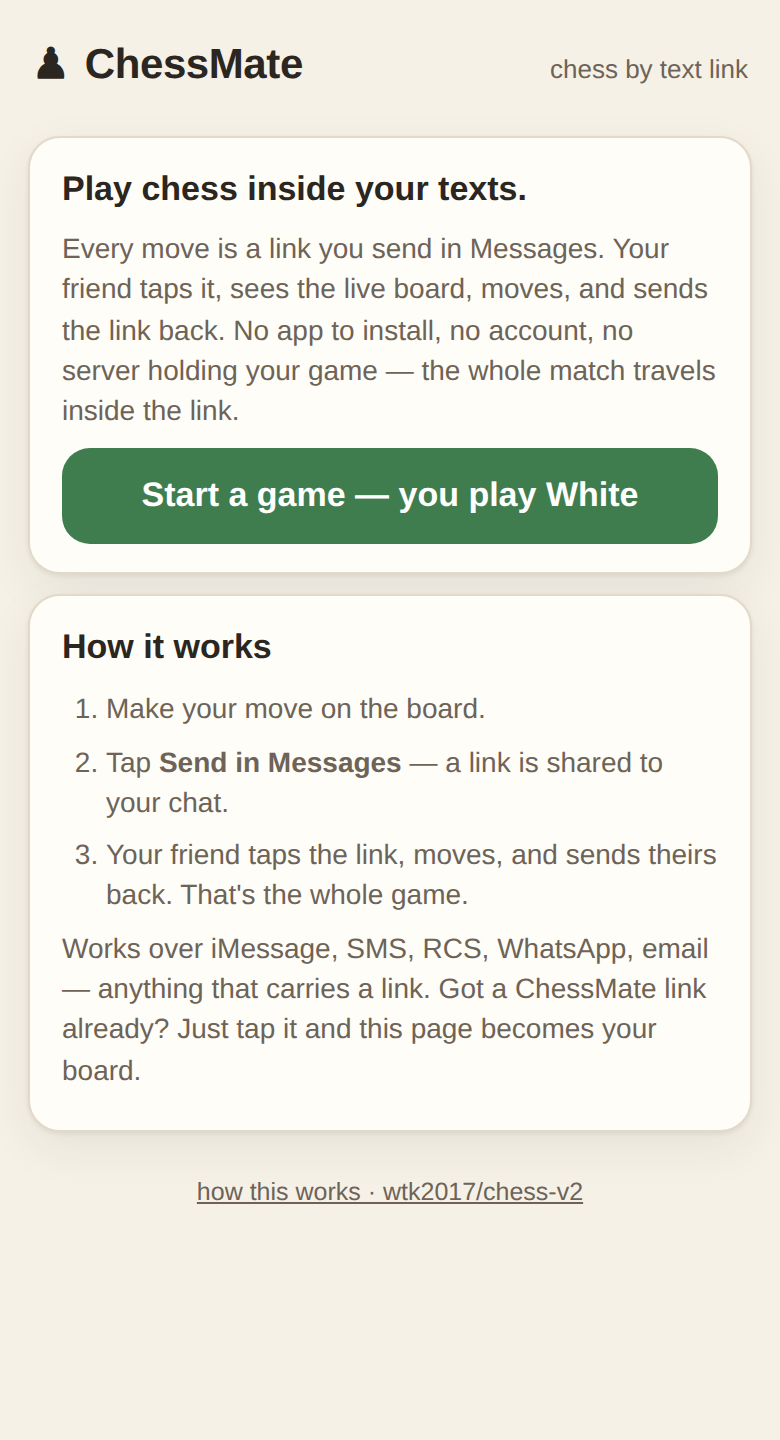
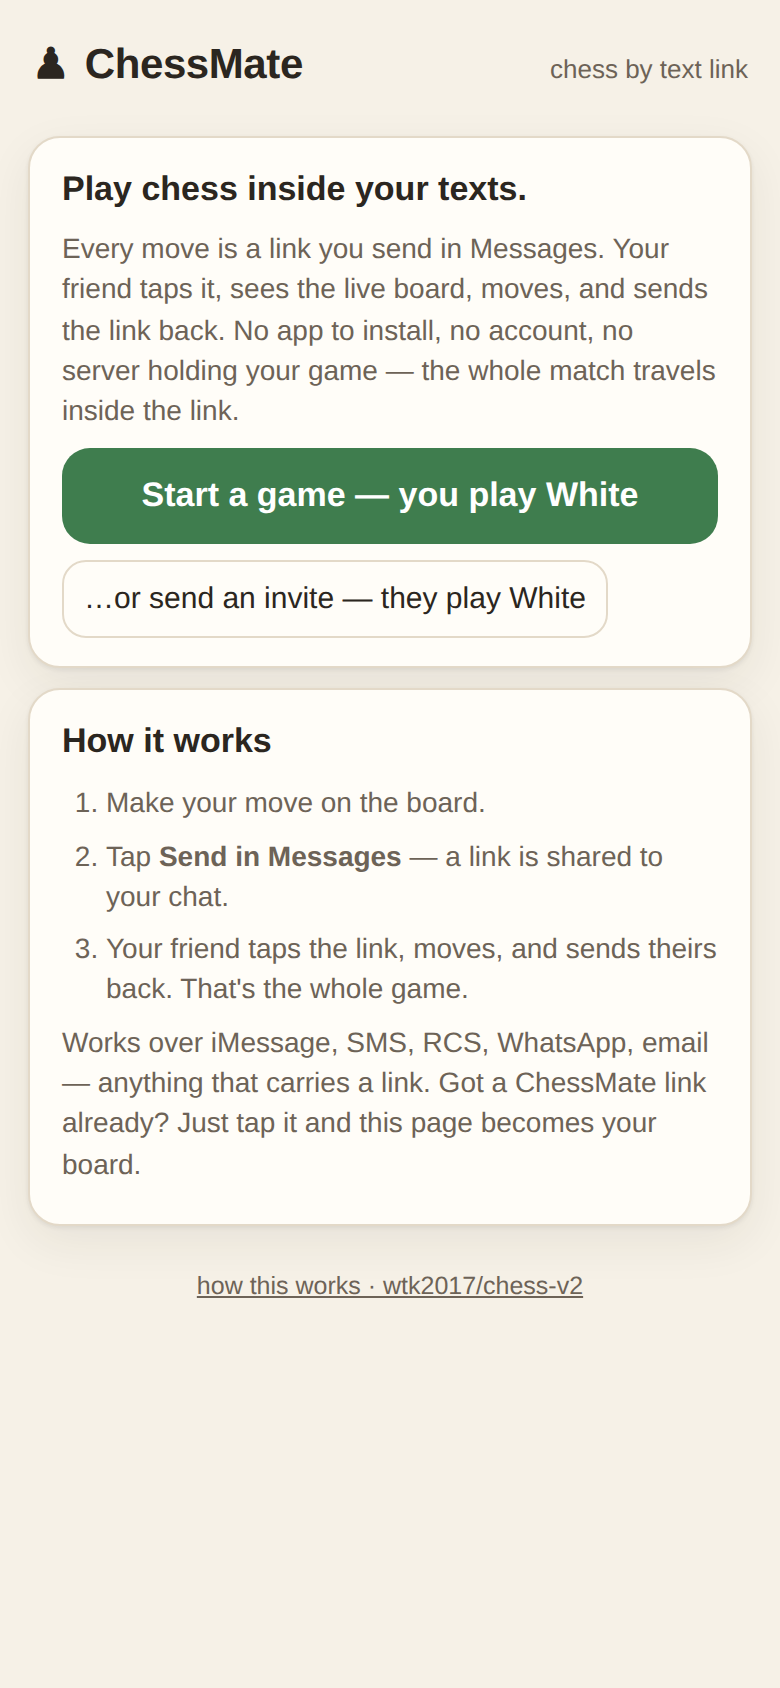
Polish round 2: verdict-link seating, blank-link guard fix, reviewer nits
Applies the remaining findings from the independent review's accepting
round:
- Verdict links now seat the viewer by sender identity: resignation
  links seat the receiver as the winner (and the resigner as themselves
  via the sent-link memory); the da= field now names the accepting side
  ("da=w"/"da=b", legacy "da=1" still decodes) so agreement links seat
  correctly too. Fixes rematch color alternation on resignation and
  agreement finals.
- Blank invite/rematch links ("v=1") no longer arm or feed the
  sent-link guard — a recipient's invite can't be mistaken for a link
  this device sent.
- Post-send status on a game-ending move reads "Link sent — game over,
  0–1" instead of naming the mated side as awaited.
- No-share browsers: primary becomes "Copy link" and the redundant
  secondary copy button hides.
- Staged invites get a "Never mind" exit back to the landing screen.
- Promotion Cancel no longer inherits the piece-glyph styling; stepper
  buttons meet the 44pt floor; stepper start label drops "move" for
  plies.
- Engine suite grows to 102 checks (da codec), browser smoke to 19
  scenarios (sender-identity seating, blank-link guard, invite exit);
  all passing. README gallery re-captured from the final UI.

Claude-Session: https://claude.ai/code/session_01N99Yz2LGrmULWWPaGFwkEH

diff --git a/test/smoke.js b/test/smoke.js
@@ -143,7 +143,7 @@ async function main() {
   assert.ok(promoLink.indexOf("a7b8q") !== -1, "promotion encoded: " + promoLink);
   ok("promotion picker stages axb8=Q");
 
-  // Draw offer riding a move, then acceptance.
+  // Draw offer riding a move, then acceptance (da names the accepter).
   await page.goto(served.base + "#v=1&m=e2e4");
   await page.click("#offerDrawBtn");
   await tapMove(page, "e7", "e5");
@@ -153,7 +153,7 @@ async function main() {
   assert.ok(await page.isVisible("#drawBanner"), "offer banner shown to opponent");
   await page.click("#acceptDrawBtn");
   var agreeLink = await stagedLink(page);
-  assert.ok(agreeLink.indexOf("da=1") !== -1, "agreement encoded");
+  assert.ok(agreeLink.indexOf("da=w") !== -1, "agreement names the accepter: " + agreeLink);
   await page.goto(agreeLink);
   assert.ok((await page.textContent("#statusLine")).indexOf("Draw") !== -1);
   ok("draw offer → accept → agreed draw");
@@ -169,20 +169,46 @@ async function main() {
   assert.ok((await page.textContent("#statusLine")).indexOf("White wins") !== -1);
   ok("two-step resignation flows through");
 
-  // Rematch color alternation: the Black-seat viewer takes White locally.
-  await page.goto(served.base + "#v=1&m=e2e4&rb=w"); // White resigned; viewer holds Black
+  // Rematch color alternation: the winner (who held Black) takes White.
+  // Realistic parity: White resigned on their own turn after 1. e4 e5.
+  await page.goto(served.base + "#v=1&m=e2e4,e7e5&rb=w");
+  assert.ok((await page.textContent("#statusLine")).indexOf("Black wins") !== -1,
+    "receiver of a resignation is the winner");
   await page.click("#rematchBtn");
   assert.ok((await page.textContent("#statusLine")).indexOf("you're White") !== -1);
   assert.ok(await page.isVisible("#actionBar"), "live board, not a send panel");
   ok("rematch hands White to the player who had Black");
 
-  // Landing invite: hands White to whoever opens the link.
+  // A winner reopening their own sent mate link is seated as themselves.
+  await page.goto(served.base + "#v=1&m=e2e4,e7e5,d1h5,b8c6,f1c4,g8f6");
+  await tapMove(page, "h5", "f7"); // Qxf7# — Scholar's mate
+  await page.click("#shareBtn");   // marks sent (records the payload)
+  var mateLink = await stagedLink(page);
+  await page.goto(mateLink);
+  assert.ok((await page.textContent("#statusLine")).indexOf("White wins") !== -1);
+  assert.ok((await page.textContent("#overDetail")).indexOf("hands White to your opponent") !== -1,
+    "sender identity recognized on their own final link");
+  ok("verdict links seat the sender correctly via sent-link memory");
+
+  // Landing invite: hands White to whoever opens the link, and blank links
+  // never arm the sent-guard (the recipient must not see "waiting").
   await page.goto(served.base);
   await page.click("#inviteBtn");
   assert.ok(await page.isVisible("#sendPanel"), "invite stages a send panel");
   assert.ok((await page.textContent("#sendCaption")).indexOf("You take White") !== -1);
   assert.ok((await page.textContent("#linkPeek")).indexOf("#v=1") !== -1, "blank invite payload");
-  ok("landing can send an invite instead of moving first");
+  await page.click("#shareBtn"); // send it (records nothing for blank payloads)
+  await page.goto(served.base + "#v=1");
+  assert.ok((await page.textContent("#statusLine")).indexOf("you're White") !== -1,
+    "incoming blank invite is playable, not 'waiting'");
+  ok("landing invite works and blank links skip the sent-guard");
+
+  // An invite can be abandoned back to the landing screen.
+  await page.goto(served.base);
+  await page.click("#inviteBtn");
+  await page.click("#undoBtn"); // labeled "Never mind" for invites
+  assert.ok(await page.isVisible("#landing"), "invite abandoned back to landing");
+  ok("staged invite is not a dead end");
 
   // History stepper: browse back, then return to the live position.
   await page.goto(served.base + "#v=1&m=e2e4,e7e5,g1f3");
@@ -203,11 +229,14 @@ async function main() {
   ok("promotion picker cancel works");
 
   // Sent-link guard: reopening a link this device sent shows the waiting
-  // view, and the explicit override re-seats for pass-and-play.
+  // view, and the explicit override re-seats for pass-and-play. (Headless
+  // Chromium has no navigator.share, so the primary button is the "Copy
+  // link" fallback and the secondary copy button is hidden.)
   await page.goto(served.base);
   await page.click("#newGameBtn");
   await tapMove(page, "d2", "d4");
-  await page.click("#copyBtn"); // marks the link as sent (records in localStorage)
+  assert.ok(!(await page.isVisible("#copyBtn")), "secondary copy hidden without share");
+  await page.click("#shareBtn"); // "Copy link" fallback — marks the link as sent
   assert.ok((await page.textContent("#statusLine")).indexOf("Link sent") !== -1, "post-send state");
   var guardedLink = await stagedLink(page);
   await page.goto(guardedLink);

diff --git a/app.js b/app.js
@@ -153,8 +153,13 @@
     incoming = state;
     game = replayed;
     var payload = hash[0] === "#" ? hash.slice(1) : hash;
-    if (wasSentByThisDevice(payload) && !incoming.verdict(game)) {
-      // This device produced this link: show the sender's waiting view.
+    var mine = wasSentByThisDevice(payload);
+    var verdict = incoming.verdict(game);
+    if (verdict) {
+      seat = seatForVerdict(incoming, replayed, mine);
+    } else if (mine && replayed.moves.length > 0) {
+      // This device produced this link (blank invites carry no seat to
+      // guard): show the sender's waiting view.
       sentMode = true;
       seat = E.opponent(game.position.turn);
     } else {
@@ -162,6 +167,23 @@
     }
     show("game");
     render();
+  }
+
+  /**
+   * Which side does this viewer hold on a finished game? Explicit finals
+   * (resignation, agreed draw) name their sender; otherwise the last mover
+   * sent the link, so the receiver is the side to move. The sent-link memory
+   * identifies a sender reopening their own final link.
+   */
+  function seatForVerdict(state, finishedGame, mine) {
+    if (state.resignedBy) {
+      return mine ? state.resignedBy : E.opponent(state.resignedBy);
+    }
+    if (state.drawAgreed && state.drawAgreedBy) {
+      return mine ? state.drawAgreedBy : E.opponent(state.drawAgreedBy);
+    }
+    var turn = finishedGame.position.turn;
+    return mine ? E.opponent(turn) : turn;
   }
 
   function startFreshGame() {
@@ -243,8 +265,12 @@
     if (staged) {
       var stagedVerdict = staged.state.verdict(staged.game);
       if (staged.sent) {
-        line.textContent = "Link sent — waiting for " +
-          (staged.kind === "move" ? colorName(staged.game.position.turn) : "their reply");
+        if (stagedVerdict) {
+          line.textContent = "Link sent — game over, " + scoreString(stagedVerdict);
+        } else {
+          line.textContent = "Link sent — waiting for " +
+            (staged.kind === "move" ? colorName(staged.game.position.turn) : "their reply");
+        }
         detail.textContent = "You can close this page; the game lives in your chat.";
         return;
       }
@@ -428,7 +454,7 @@
     if (shownPly === maxPly) {
       els.histLabel.textContent = "Latest position";
     } else if (shownPly === 0) {
-      els.histLabel.textContent = "Start · move 0 of " + maxPly;
+      els.histLabel.textContent = "Start · 0 of " + maxPly;
     } else {
       var current = displayed().game;
       var ply = shownPly;
@@ -482,9 +508,13 @@
       };
       els.shareBtn.textContent = navigator.share
         ? (shareLabels[staged.kind] || "Send…")
-        : "Copy move link";
-      els.undoBtn.textContent = staged.sent ? "Stage a different move" : "Undo";
-      els.undoBtn.classList.toggle("hidden", staged.kind === "invite" && !staged.sent);
+        : "Copy link";
+      $("copyBtn").classList.toggle("hidden", !navigator.share);
+      if (staged.kind === "invite") {
+        els.undoBtn.textContent = "Never mind";
+      } else {
+        els.undoBtn.textContent = staged.sent ? "Stage a different move" : "Undo";
+      }
       els.sentNote.classList.toggle("hidden", !staged.sent);
       if (staged.sent) {
         els.sentNote.textContent =
@@ -609,7 +639,8 @@
   function markSent() {
     if (!staged || staged.sent) return void render();
     staged.sent = true;
-    recordSent(staged.state.encode());
+    var payload = staged.state.encode();
+    if (payload !== "v=1") recordSent(payload); // blank invites carry no seat to guard
     render();
   }
 
@@ -703,7 +734,10 @@
   });
 
   $("acceptDrawBtn").addEventListener("click", function () {
-    stageSimple("accept", function (state) { state.drawAgreed = true; });
+    stageSimple("accept", function (state) {
+      state.drawAgreed = true;
+      state.drawAgreedBy = seat;
+    });
   });
 
   $("declineDrawBtn").addEventListener("click", function () {
@@ -725,9 +759,16 @@
   });
 
   $("undoBtn").addEventListener("click", function () {
+    var wasInvite = staged && staged.kind === "invite";
     staged = null;
     offerDraw = false;
     viewPly = null;
+    if (wasInvite) {
+      incoming = null;
+      game = null;
+      show("landing");
+      return;
+    }
     render();
   });
 

diff --git a/engine.js b/engine.js
@@ -712,6 +712,7 @@
     this.drawOfferedBy = null; // "w" | "b" | null
     this.resignedBy = null; // "w" | "b" | null
     this.drawAgreed = false;
+    this.drawAgreedBy = null; // "w" | "b" | null (null on legacy "da=1" payloads)
   }
 
   MatchState.prototype.clone = function () {
@@ -721,6 +722,7 @@
     copy.drawOfferedBy = this.drawOfferedBy;
     copy.resignedBy = this.resignedBy;
     copy.drawAgreed = this.drawAgreed;
+    copy.drawAgreedBy = this.drawAgreedBy;
     return copy;
   };
 
@@ -730,7 +732,8 @@
     if (this.moves.length > 0) parts.push("m=" + this.moves.join(","));
     if (this.drawOfferedBy) parts.push("do=" + this.drawOfferedBy);
     if (this.resignedBy) parts.push("rb=" + this.resignedBy);
-    if (this.drawAgreed) parts.push("da=1");
+    // "da" carries the accepting color; bare "1" is the legacy v1 form.
+    if (this.drawAgreed) parts.push("da=" + (this.drawAgreedBy || "1"));
     return parts.join("&");
   };
 
@@ -779,7 +782,14 @@
           state.resignedBy = value;
           break;
         case "da":
-          state.drawAgreed = value === "1";
+          if (value === WHITE || value === BLACK) {
+            state.drawAgreed = true;
+            state.drawAgreedBy = value;
+          } else if (value === "1") {
+            state.drawAgreed = true; // legacy form: accepter unknown
+          } else {
+            return null;
+          }
           break;
         default:
           break; // Unknown keys ignored for forward compatibility.

diff --git a/index.html b/index.html
@@ -258,7 +258,7 @@
     font-size: 17px;
     line-height: 1;
     min-width: 52px;
-    min-height: 40px;
+    min-height: 44px;
     cursor: pointer;
   }
   .stepper button:disabled { opacity: 0.35; }
@@ -306,7 +306,7 @@
     box-shadow: var(--shadow);
   }
   .picker .choices { display: flex; gap: 10px; margin-top: 10px; }
-  .picker button {
+  .picker .choices button {
     font-size: 42px;
     line-height: 1;
     padding: 10px 12px;
@@ -316,8 +316,8 @@
     cursor: pointer;
     font-family: "Apple Symbols", -apple-system, "Segoe UI Symbol", "Noto Sans Symbols 2", sans-serif;
   }
-  .picker button .glyph.w { color: #fff; text-shadow: 0 1px 1.5px rgba(0,0,0,.65), 0 0 1px rgba(0,0,0,.9); }
-  .picker button .glyph.b { color: #151210; }
+  .picker .choices button .glyph.w { color: #fff; text-shadow: 0 1px 1.5px rgba(0,0,0,.65), 0 0 1px rgba(0,0,0,.9); }
+  .picker .choices button .glyph.b { color: #151210; }
 
   footer { text-align: center; margin-top: 18px; }
   footer a { color: var(--ink-soft); font-size: 12.5px; }

diff --git a/test/run-tests.js b/test/run-tests.js
@@ -286,7 +286,13 @@ section("MatchState codec");
     "resignation verdict");
   var agreed = MatchState.decode("v=1&m=e2e4&da=1");
   assertEqual(agreed.verdict(agreed.makeGame()), { winner: null, reason: "agreement" },
-    "agreed-draw verdict");
+    "legacy da=1 agreed-draw verdict");
+  assertEqual(agreed.drawAgreedBy, null, "legacy da=1 leaves the accepter unknown");
+  var agreedBy = MatchState.decode("v=1&m=e2e4&da=b");
+  assertEqual(agreedBy.drawAgreed, true, "colored da decodes as agreed");
+  assertEqual(agreedBy.drawAgreedBy, "b", "colored da names the accepter");
+  assertEqual(agreedBy.encode(), "v=1&m=e2e4&da=b", "colored da round-trips");
+  assertEqual(MatchState.decode("v=1&da=x"), null, "bad da value rejected");
   var mate = MatchState.decode("v=1&m=f2f3,e7e5,g2g4,d8h4");
   assertEqual(mate.verdict(mate.makeGame()), { winner: "b", reason: "checkmate" },
     "checkmate verdict");

diff --git a/DESIGN.md b/DESIGN.md
@@ -110,7 +110,7 @@ payload   = "v=" version *( "&" field )
 field     = "m=" move *( "," move )      ; full UCI move list from the start position
           / "do=" color                  ; draw offered by (rides with the offerer's move)
           / "rb=" color                  ; resigned by
-          / "da=1"                       ; draw agreed
+          / "da=" ( color / "1" )        ; draw agreed, by whom ("1" = legacy, accepter unknown)
 color     = "w" / "b"
 move      = <UCI: from square, to square, optional promotion piece>  ; e2e4, e7e8q
 ```
@@ -122,7 +122,7 @@ Examples:
 #v=1&m=e2e4                       after 1. e4
 #v=1&m=e2e4,e7e5,g1f3&do=w        White played 2. Nf3 and offers a draw
 #v=1&m=…&rb=b                     Black resigns
-#v=1&m=…&da=1                     draw agreed
+#v=1&m=…&da=w                     draw agreed (White accepted)
 ```
 
 Design properties, all inherited from v1's codec:

diff --git a/README.md b/README.md
@@ -89,7 +89,8 @@ https://…/#v=1&m=e2e4,e7e5,g1f3&do=w
             └─ format version
 ```
 
-`rb=` marks a resignation, `da=1` an agreed draw. The full move list (not a
+`rb=` marks a resignation; `da=` an agreed draw, its value naming the
+accepting side (legacy `da=1` still decodes). The full move list (not a
 snapshot) is what makes every link self-verifying: the app replays it through
 the rules engine and refuses illegal or tampered histories. State lives in the
 `#fragment`, which browsers never send to any server — the static host sees
